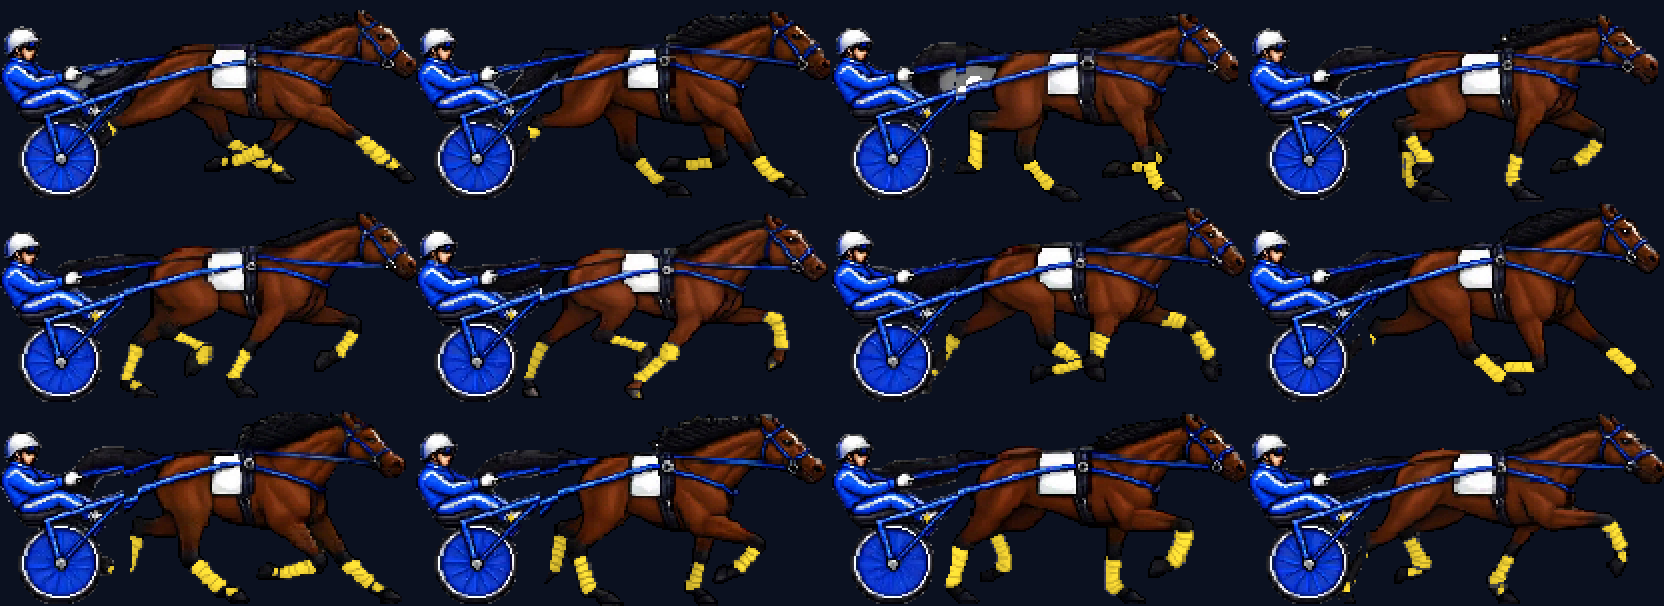
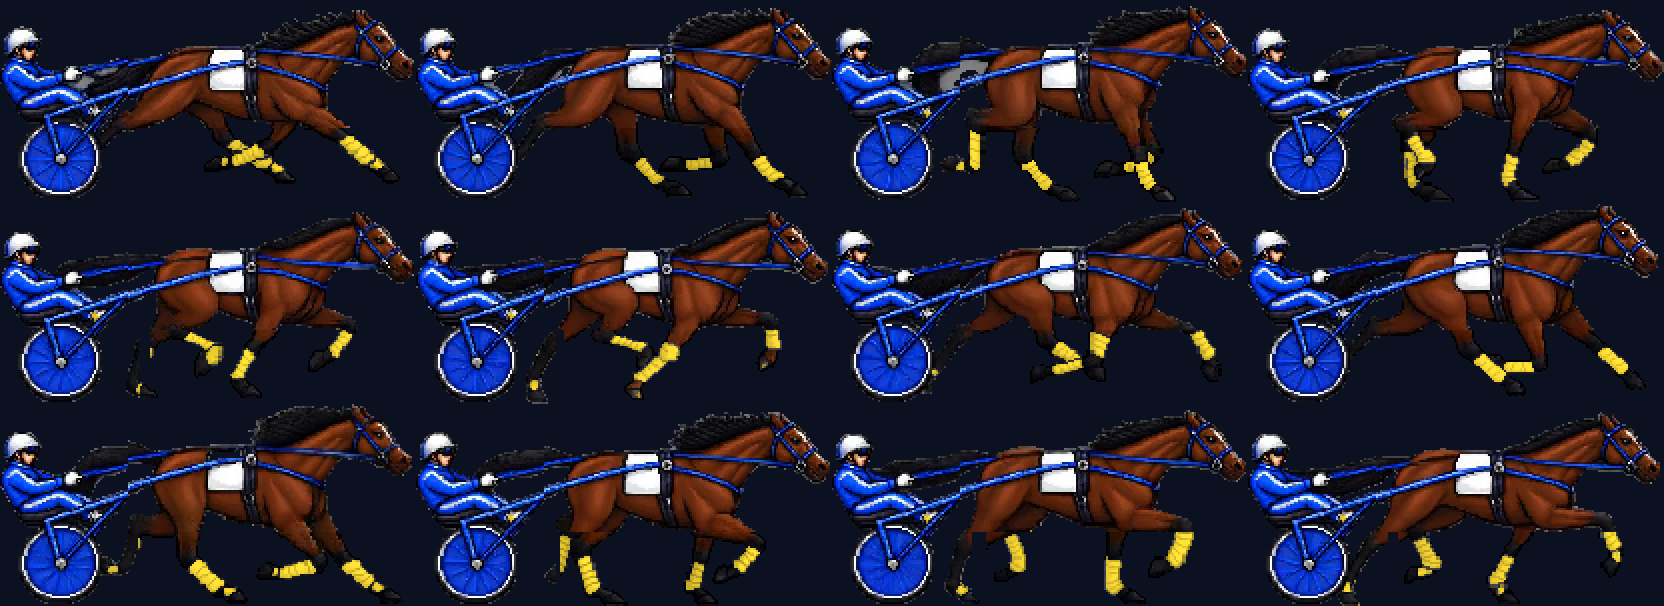
Deploy 2026-10-30 14:57

diff --git a/mockups/replay_hd2d.html b/mockups/replay_hd2d.html
@@ -660,7 +660,7 @@ const cycleLoaded = new Promise(r => { const i = new Image(); i.onload = () => {
 // Side view only for now; the angle, overhead and drive-cam sheets stay bare.
 const WRAPS_OK = !RIG && !PAINTED;                                    // the race data may not be in yet: load the sheet, pick per horse later
 let wrapImg = null, wrapMask = null;
-const wrapLoaded = WRAPS_OK ? Promise.all(["wraps12", "wraps12_mask"].map(n => new Promise(r => { const i = new Image(); i.onload = () => { if (n === "wraps12") wrapImg = i; else wrapMask = i; r(); }; i.onerror = r; i.src = P(`/mock/pixel/tack/${n}.png?v=4`); }))) : Promise.resolve();
+const wrapLoaded = WRAPS_OK ? Promise.all(["wraps12", "wraps12_mask"].map(n => new Promise(r => { const i = new Image(); i.onload = () => { if (n === "wraps12") wrapImg = i; else wrapMask = i; r(); }; i.onerror = r; i.src = P(`/mock/pixel/tack/${n}.png?v=5`); }))) : Promise.resolve();
 function wrapTint(c, hex) {
   if (!wrapMask) return c;
   if (!wrapTint.m) { const k = document.createElement("canvas"); k.width = wrapMask.width; k.height = wrapMask.height; const kg = k.getContext("2d"); kg.drawImage(wrapMask, 0, 0); wrapTint.m = kg.getImageData(0, 0, k.width, k.height).data; }

diff --git a/art/tack_layers/overlay_wraps.py b/art/tack_layers/overlay_wraps.py
@@ -1,0 +1,112 @@
+"""Wraps as overlays on the untouched stock runner: each of SpriteCook's wraps is cut from its fitted redraw, turned to
+the angle of today's leg and laid along it from the fetlock up. Today's horse never moves, so nothing jitters.
+    python art/tack_layers/overlay_wraps.py   -> overlay_cycle.png, overlay_mask.png, previews"""
+import math, os
+import numpy as np
+from PIL import Image
+import assemble_wraps as A
+from wrap_tint import dye
+
+HERE = os.path.dirname(os.path.abspath(__file__))
+W, H, N = 208, 101, 12
+WHEEL = (30, 75, 27)
+
+
+def legs(o):
+    """Today's legs: (fetlock x, y, unit axis up the leg) from each white fetlock spot and the dark leg above it."""
+    px = o.load()
+    off = lambda x, y: math.hypot(x - WHEEL[0], y - WHEEL[1]) > WHEEL[2] + 2
+    raw = [(x, y) for y in range(58, H) for x in range(48, W) if px[x, y][3] and min(px[x, y][:3]) > 190 and off(x, y)]
+    spots = []
+    for x, y in raw:
+        if not any(math.hypot(x - a, y - b) < 4 for a, b, *_ in spots):
+            g = [(u, v) for u, v in raw if math.hypot(u - x, v - y) < 4]
+            spots.append((sum(u for u, _ in g) / len(g), min(v for _, v in g)))
+    out = []
+    leg = lambda p: p[3] and not (p[2] > p[0] + 40 and p[2] > p[1] + 30)
+    for sx, sy in spots:
+        up = [(x, y) for y in range(int(sy) - 10, int(sy)) for x in range(int(sx) - 8, int(sx) + 9)
+              if 0 <= x < W and 0 <= y < H and leg(px[x, y]) and math.hypot(x - sx, y - sy) <= 9 and off(x, y)]
+        if len(up) < 5:
+            continue
+        mx, my = np.mean([x for x, _ in up]), np.mean([y for _, y in up])
+        cov = np.cov(np.array(up, float).T); val, vec = np.linalg.eigh(cov); ax = vec[:, 1]
+        if ax[0] * (mx - sx) + ax[1] * (my - sy) < 0:
+            ax = -ax
+        out.append((sx, sy, ax / np.linalg.norm(ax)))
+    return out
+
+
+def blobs(cell, mask):
+    """SpriteCook's wraps in its fitted frame: pieces of the wrap mask, each with its foot and its axis up the leg."""
+    m = np.array(mask) > 128; seen = np.zeros_like(m); out = []
+    for y, x in zip(*np.nonzero(m)):
+        if seen[y, x]:
+            continue
+        stack, pts = [(y, x)], []; seen[y, x] = True
+        while stack:
+            v, u = stack.pop(); pts.append((u, v))
+            for dv in (-1, 0, 1):
+                for du in (-1, 0, 1):
+                    q = (v + dv, u + du)
+                    if 0 <= q[0] < H and 0 <= q[1] < W and m[q] and not seen[q]:
+                        seen[q] = True; stack.append(q)
+        if len(pts) < 12:
+            continue
+        P = np.array(pts, float); c = P.mean(0); val, vec = np.linalg.eigh(np.cov(P.T)); ax = vec[:, 1]
+        if ax[1] > 0:                                                   # pointing up the leg (toward smaller y)
+            ax = -ax
+        t = (P - c) @ ax
+        foot = c + ax * t.min()
+        out.append((pts, foot, ax))
+    return out
+
+
+def overlay(i):
+    o = A.orig.crop((i * W, 0, (i + 1) * W, H))
+    cell = A.size(A.settle(A.fit(i), i), i); mask = A.wraps(cell)
+    ours = legs(o)
+    out = o.copy(); po = out.load(); cp = cell.load()
+    lay = Image.new("L", (W, H)); lp = lay.load()
+    used = set()
+    for pts, foot, ax in sorted(blobs(cell, mask), key=lambda b: -len(b[0])):
+        if not ours:
+            break
+        k = min(range(len(ours)), key=lambda j: math.hypot(ours[j][0] - foot[0], ours[j][1] - foot[1]))
+        sx, sy, tax = ours[k]
+        if k in used or math.hypot(sx - foot[0], sy - foot[1]) > 22:
+            continue
+        used.add(k)
+        ang = math.atan2(tax[1], tax[0]) - math.atan2(ax[1], ax[0])     # turn SpriteCook's wrap onto today's leg
+        ca, sa = math.cos(ang), math.sin(ang)
+        src = {(u, v) for u, v in pts}
+        fx, fy = foot
+        tx0, ty0 = sx, sy - 1                                          # the wrap's foot just above today's fetlock
+        r = 18
+        for y in range(int(ty0) - r, int(ty0) + 4):                     # inverse map: every target pixel looks back
+            for x in range(int(tx0) - r, int(tx0) + r):
+                if not (0 <= x < W and 0 <= y < H):
+                    continue
+                dx, dy = x - tx0, y - ty0
+                u = round(fx + ca * dx + sa * dy); v = round(fy - sa * dx + ca * dy)
+                if (u, v) in src:
+                    po[x, y] = cp[u, v]; lp[x, y] = 255
+    return out, lay
+
+
+if __name__ == "__main__":
+    sheet, msheet = Image.new("RGBA", (W * N, H)), Image.new("L", (W * N, H))
+    for i in range(N):
+        f, m = overlay(i); sheet.paste(f, (i * W, 0)); msheet.paste(m, (i * W, 0))
+        print(i, "legs today", len(legs(A.orig.crop((i * W, 0, (i + 1) * W, H)))), "wrap px", int((np.array(m) > 0).sum()))
+    sheet.save(os.path.join(HERE, "overlay_cycle.png")); msheet.save(os.path.join(HERE, "overlay_mask.png"))
+    t = Image.fromarray(dye(np.array(sheet), np.array(msheet) > 128, "#1f4fbf"))
+    o = A.orig
+    frames, grid = [], Image.new("RGBA", (W * 4, H * 3), (58, 38, 26, 255))
+    for i in range(N):
+        grid.alpha_composite(t.crop((i * W, 0, (i + 1) * W, H)), ((i % 4) * W, (i // 4) * H))
+        f = Image.new("RGBA", (W, H * 2 + 6), (58, 38, 26, 255)); f.alpha_composite(o.crop((i * W, 0, (i + 1) * W, H))); f.alpha_composite(t.crop((i * W, 0, (i + 1) * W, H)), (0, H + 6))
+        frames.append(f.resize((W * 3, f.height * 3), Image.NEAREST).convert("P", palette=Image.ADAPTIVE))
+    grid.resize((grid.width * 2, grid.height * 2), Image.NEAREST).save(os.path.join(HERE, "overlay_sheet.png"))
+    frames[0].save(os.path.join(HERE, "overlay_vs_today.gif"), save_all=True, append_images=frames[1:], duration=70, loop=0)
+    f0 = Image.new("RGBA", (W, H), (58, 38, 26, 255)); f0.alpha_composite(t.crop((0, 0, W, H))); f0.resize((W * 4, H * 4), Image.NEAREST).save(os.path.join(HERE, "overlay_f0.png"))

diff --git a/art/tack_layers/fit_anim.py b/art/tack_layers/fit_anim.py
@@ -1,0 +1,79 @@
+"""The wrapped runner animated the way the stock one was (frame-engine, fe_prep, fix_pace), fitted into the replay's
+208x101 cells at the stock horse's size, wheel on the stock wheel; then its wrap mask and the previews.
+    python art/tack_layers/fit_anim.py   -> mockups/pixel/tack/wraps12.png + wraps12_mask.png (candidate), previews here"""
+import os
+import numpy as np
+from PIL import Image
+import assemble_wraps as A
+from anchors import anchors
+from wrap_tint import dye
+
+HERE = os.path.dirname(os.path.abspath(__file__))
+PIX = os.path.join(HERE, "..", "..", "mockups", "pixel")
+W, H, N = 208, 101, 12
+src = Image.open(os.path.join(PIX, "tack", "wraps_fe12.png")).convert("RGBA"); sw = src.width // N
+stock = A.orig
+area = lambda im: (np.array(im)[:, 70:, 3] > 0).sum()
+k = (np.mean([area(stock.crop((i * W, 0, (i + 1) * W, H))) for i in range(N)]) /
+     np.mean([area(src.crop((i * sw, 0, (i + 1) * sw, src.height)).resize((W, H))) for i in range(N)])) ** .5
+ow = np.mean([anchors(stock.crop((i * W, 0, (i + 1) * W, H)))[0][0] for i in range(N)])
+oy = np.mean([anchors(stock.crop((i * W, 0, (i + 1) * W, H)))[0][1] for i in range(N)])
+def build(k):
+    out = []
+    for i in range(N):
+        f = src.crop((i * sw, 0, (i + 1) * sw, src.height)).resize((round(W * k), round(H * k)), Image.NEAREST)
+        a = anchors(f); c = Image.new("RGBA", (W, H)); c.paste(f, (round(ow - a[0][0]), round(oy - a[0][1])), f); out.append(c)
+    return out
+
+
+for _ in range(2):                                                      # settle the scale on the real fitted frames
+    trial = build(k)
+    k *= (np.mean([area(stock.crop((i * W, 0, (i + 1) * W, H))) for i in range(N)]) / np.mean([area(c) for c in trial])) ** .5
+cells = []
+for i in range(N):
+    f = src.crop((i * sw, 0, (i + 1) * sw, src.height)).resize((round(W * k), round(H * k)), Image.NEAREST)
+    a = anchors(f)
+    dx, dy = round(ow - a[0][0]), round(oy - a[0][1])                   # one wheel, same place every frame
+    c = Image.new("RGBA", (W, H)); c.paste(f, (dx, dy), f); cells.append(c)
+masks = [A.wraps(c) for c in cells]
+PAST = 4                                                                # the pastern left bare above the hoof
+KEEP = 99                                                               # wrap height from the fetlock up, like the still's pads
+
+
+def trim(cell, mask):
+    """The animation drew the wraps knee-high: keep KEEP px of each from its foot up the leg; the rest becomes the
+    bay's black lower leg, its shading kept. And the white the animation left behind the driver becomes dark tail."""
+    from overlay_wraps import blobs
+    px, mp = cell.load(), mask.load()
+    for pts, foot, ax in blobs(cell, mask):
+        for u, v in pts:
+            t = (u - foot[0]) * ax[0] + (v - foot[1]) * ax[1]
+            if t > KEEP + PAST or t < PAST:                              # bare pastern below, bare leg above
+                p = px[u, v]; l = sum(p[:3]) / 765
+                g = int(4 + 22 * l * l); px[u, v] = (g, g + 3, g + 10, p[3]); mp[u, v] = 0        # the stock runner's blue-black points
+    for y in range(28, 60):                                             # behind the driver, ahead of the saddle pad
+        for x in range(48, 98):
+            p = px[x, y]
+            if p[3] and max(p[:3]) - min(p[:3]) < 40 and sum(p[:3]) > 330:
+                l = sum(p[:3]) / 765; g = int(4 + 22 * l * l); px[x, y] = (g, g + 3, g + 10, p[3])
+    return cell, mask
+
+
+for c, m in zip(cells, masks):
+    trim(c, m)
+sheet, msheet = Image.new("RGBA", (W * N, H)), Image.new("L", (W * N, H))
+for i, (c, m) in enumerate(zip(cells, masks)):
+    sheet.alpha_composite(c, (i * W, 0)); msheet.paste(m, (i * W, 0))
+sheet.save(os.path.join(HERE, "anim_cycle.png")); msheet.save(os.path.join(HERE, "anim_mask.png"))
+t = Image.fromarray(dye(np.array(sheet), np.array(msheet) > 128, "#1f4fbf"))
+frames = []
+for i in range(N):
+    f = Image.new("RGBA", (W, H * 2 + 6), (58, 38, 26, 255))
+    f.alpha_composite(stock.crop((i * W, 0, (i + 1) * W, H))); f.alpha_composite(t.crop((i * W, 0, (i + 1) * W, H)), (0, H + 6))
+    frames.append(f.resize((W * 3, f.height * 3), Image.NEAREST).convert("P", palette=Image.ADAPTIVE))
+frames[0].save(os.path.join(HERE, "anim_vs_today.gif"), save_all=True, append_images=frames[1:], duration=1000 // 24, loop=0)
+g = Image.new("RGBA", (W * 4, H * 3), (58, 38, 26, 255))
+for i in range(N):
+    g.alpha_composite(t.crop((i * W, 0, (i + 1) * W, H)), ((i % 4) * W, (i // 4) * H))
+g.resize((g.width * 2, g.height * 2), Image.NEAREST).save(os.path.join(HERE, "anim_sheet.png"))
+print("scale", round(k, 3), "area vs stock", [round(area(c) / area(stock.crop((i * W, 0, (i + 1) * W, H))), 2) for i, c in enumerate(cells)])

diff --git a/art/tack_layers/assemble_wraps.py b/art/tack_layers/assemble_wraps.py
@@ -87,6 +87,54 @@ def size(cell, i):
     return out
 
 
+SEAM = 64                                                              # rows above: today's runner; below: SpriteCook's legs
+
+
+def graft(cell, i):
+    """Today's frame with SpriteCook's lower legs grafted on: head, neck, body, harness, driver and wheel are the stock
+    runner's own pixels, so they move exactly as the baseline does. Each of SpriteCook's lower legs (with its wrap) is
+    slid sideways so its top meets the top of today's leg at the seam, then pasted in place of today's lower leg."""
+    o = orig.crop((i * W, 0, (i + 1) * W, H))
+    out = o.copy(); po, pc, pt = o.load(), cell.load(), out.load()
+    x0 = 70
+    for y in range(SEAM, H):                                           # today's lower legs out
+        for x in range(x0, W):
+            pt[x, y] = (0, 0, 0, 0)
+    runs, x = [], x0                                                   # where today's legs cross the seam
+    while x < W:
+        if po[x, SEAM - 1][3]:
+            s0 = x
+            while x < W and po[x, SEAM - 1][3]:
+                x += 1
+            runs.append((s0 + x - 1) / 2)
+        x += 1
+    seen = set()
+    for y in range(SEAM, H):                                           # SpriteCook's lower legs, one piece at a time
+        for x in range(x0, W):
+            if (x, y) in seen or not pc[x, y][3]:
+                continue
+            comp, stack = [], [(x, y)]; seen.add((x, y))
+            while stack:
+                u, v = stack.pop(); comp.append((u, v))
+                for du in (-1, 0, 1):
+                    for dv in (-1, 0, 1):
+                        q = (u + du, v + dv)
+                        if x0 <= q[0] < W and SEAM <= q[1] < H and q not in seen and pc[q][3]:
+                            seen.add(q); stack.append(q)
+            top = min(v for _, v in comp)
+            tx = [u for u, v in comp if v <= top + 1]
+            mid = sum(tx) / len(tx)
+            dx = 0
+            if runs and top <= SEAM + 2:                               # a leg that reaches the seam: line it up with today's
+                near = min(runs, key=lambda r: abs(r - mid))
+                if abs(near - mid) <= 10:
+                    dx = round(near - mid)
+            for u, v in comp:
+                if 0 <= u + dx < W:
+                    pt[u + dx, v] = pc[u, v]
+    return out
+
+
 def steady(cell, i):
     """Today's wheel and driver laid over SpriteCook's: they're the same on every horse, so they never pulse."""
     from anchors import anchors, wheel_w
@@ -136,7 +184,7 @@ def tint(cell, mask, hx):
 
 
 if __name__ == "__main__":
-    cells = [steady(size(settle(fit(i), i), i), i) for i in range(N)]; masks = [wraps(c) for c in cells]
+    cells = [graft(size(settle(fit(i), i), i), i) for i in range(N)]; masks = [wraps(c) for c in cells]
     for i, m in enumerate(masks):
         assert m.getbbox(), f"frame {i}: no wraps found"
     sheet, msheet = Image.new("RGBA", (W * N, H)), Image.new("L", (W * N, H))

diff --git a/art/tack_layers/hooves.py b/art/tack_layers/hooves.py
@@ -1,0 +1,43 @@
+"""How much the hooves change shape through a cycle: each hoof is a near-black blob low on a leg; across the twelve
+frames its size and its length-to-width should hold. Lower is steadier.
+    python art/tack_layers/hooves.py <sheet.png> [<sheet.png> ...]"""
+import sys
+import numpy as np
+from PIL import Image
+
+W, H, N = 208, 101, 12
+
+
+def hooves(frame):
+    a = np.array(frame.convert("RGBA")).astype(int)
+    dark = (a[:, :, 3] > 0) & (a[:, :, :3].sum(2) < 110)
+    dark[: int(H * .7)] = False; dark[:, :70] = False
+    seen = np.zeros_like(dark); out = []
+    for y, x in zip(*np.nonzero(dark)):
+        if seen[y, x]:
+            continue
+        st, pts = [(y, x)], []; seen[y, x] = True
+        while st:
+            v, u = st.pop(); pts.append((v, u))
+            for dv in (-1, 0, 1):
+                for du in (-1, 0, 1):
+                    q = (v + dv, u + du)
+                    if 0 <= q[0] < H and 0 <= q[1] < W and dark[q] and not seen[q]:
+                        seen[q] = True; st.append(q)
+        if len(pts) >= 6:
+            P = np.array(pts, float); ev = np.linalg.eigvalsh(np.cov(P.T)) if len(pts) > 2 else [1, 1]
+            out.append((len(pts), (ev[-1] / max(ev[0], .25)) ** .5))
+    return out
+
+
+def score(path):
+    im = Image.open(path).convert("RGBA")
+    blobs = [b for i in range(N) for b in hooves(im.crop((i * W, 0, (i + 1) * W, H)))]
+    areas = np.array([a for a, _ in blobs], float); asp = np.array([r for _, r in blobs], float)
+    return dict(hooves=len(blobs), area_spread=round(areas.std() / areas.mean(), 2), shape_spread=round(asp.std() / asp.mean(), 2),
+                biggest_vs_median=round(areas.max() / np.median(areas), 1))
+
+
+if __name__ == "__main__":
+    for p in sys.argv[1:]:
+        print(p, score(p))

diff --git a/tack_art.py b/tack_art.py
@@ -90,7 +90,7 @@ def paint(pieces, cols, c1, c2):
 def render(pieces, cols, c1, c2):
     """The model's PNG at 3x, cached like the emblems; returns its path under /mock."""
     pieces = tuple(p for p in PIECES if p in pieces)
-    key = "tack|" + ",".join(pieces) + "|" + ",".join(f"{k}{v}" for k, v in sorted(cols.items())) + f"|{c1}|{c2}|v6"
+    key = "tack|" + ",".join(pieces) + "|" + ",".join(f"{k}{v}" for k, v in sorted(cols.items())) + f"|{c1}|{c2}|v7"
     name = hashlib.md5(key.encode()).hexdigest()[:12] + ".png"
     path = os.path.join(CACHE, name)
     if not os.path.exists(path):
